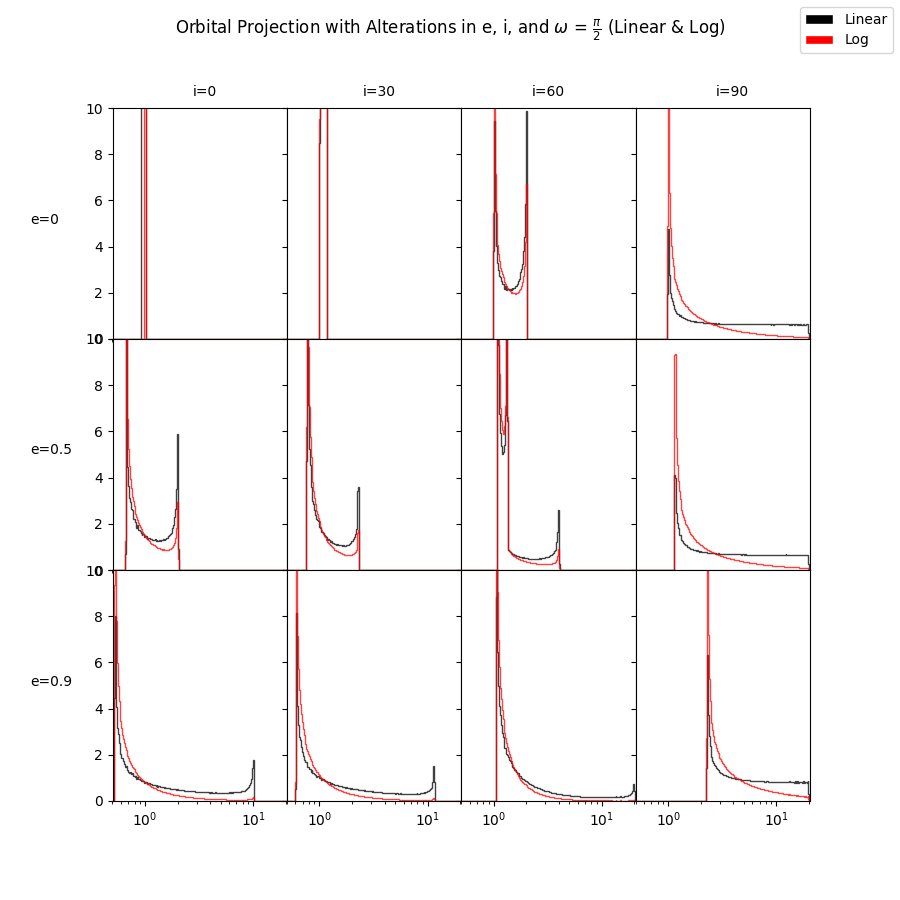
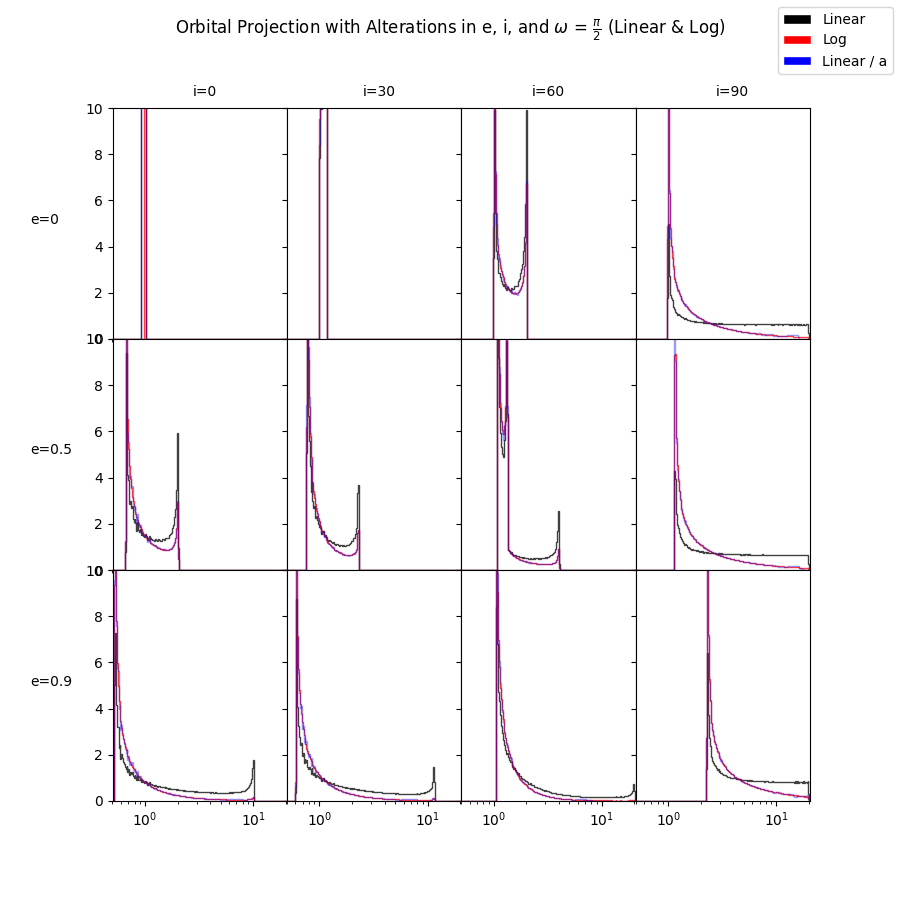
Allowed MultiHistPlot to work for Dictionary values and created a third value in the hist for Linear * 1/a

diff --git a/Sep.py b/Sep.py
@@ -378,6 +378,7 @@ def Rchange(param, coords = False, inclination = False):
     # By making this a dictionary, it vastly improves layout of counts of semimajor axis dots
     totlindict = {}
     totlogdict = {}
+    totlinsemidict = {}
     
     # Coordinate Lists
     xlist = []
@@ -439,6 +440,7 @@ def Rchange(param, coords = False, inclination = False):
             
                 conlin = np.where(np.abs(r-r0)<=0.01)
                 totlindict[val] = len(conlin[0])
+                totlinsemidict[val] = round(len(conlin[0]) / val)
         else:
             # Log Portion
             steps = np.linspace(0, 10000,10000)
@@ -460,7 +462,7 @@ def Rchange(param, coords = False, inclination = False):
                     else:
                         totlogdict[aval] = len(conlog[0])
                
-    return totlindict, xlist, ylist, totlogdict
+    return totlindict, xlist, ylist, totlogdict, totlinsemidict
 
 def DataProj(w = 0, start = 0.5, end = 20, step = 0.5):
     """
@@ -535,11 +537,11 @@ def DataHist(w = 0, step = 0.002, end = 10, Linearonly = False, inclination = Fa
     # Parameters for Paralellization
     param = [
     # Row 1
-    (0. , 0., w, end, step, Linear), (0., np.pi/6, w, end, step, Linear), (0., np.pi/3, w, end, step, Linear), (0., np.pi/2, w, end, step, Linear),
+    (0. , 0., w, end, step, Linear, inclination), (0., np.pi/6, w, end, step, Linear, inclination), (0., np.pi/3, w, end, step, Linear, inclination), (0., np.pi/2, w, end, step, Linear, inclination),
     # Row 2
-    (0.5, 0., w, end, step, Linear), (0.5, np.pi/6, w, end, step, Linear), (0.5, np.pi/3, w, end, step, Linear), (0.5, np.pi/2, w, end, step, Linear),
+    (0.5, 0., w, end, step, Linear, inclination), (0.5, np.pi/6, w, end, step, Linear, inclination), (0.5, np.pi/3, w, end, step, Linear, inclination), (0.5, np.pi/2, w, end, step, Linear, inclination),
     # Row 3
-    (0.9, 0., w, end, step, Linear), (0.9, np.pi/6, w, end, step, Linear), (0.9, np.pi/3, w, end, step, Linear), (0.9, np.pi/2, w, end, step, Linear)
+    (0.9, 0., w, end, step, Linear, inclination), (0.9, np.pi/6, w, end, step, Linear, inclination), (0.9, np.pi/3, w, end, step, Linear, inclination), (0.9, np.pi/2, w, end, step, Linear, inclination)
         
     ]
     
@@ -549,9 +551,12 @@ def DataHist(w = 0, step = 0.002, end = 10, Linearonly = False, inclination = Fa
     
     start = time.perf_counter()
     # Multi Processing
-    # if inclination == False:
-    with Pool(processes = 3) as pool:
-        totlist = pool.map(Rchange, param)
+    if inclination == True:
+        with Pool(processes = 3) as pool:
+            totlist = pool.map(Rchange, param)
+    else:
+        with Pool(processes = 6) as pool:
+            totlist = pool.map(Rchange, param)
     # else:
     #     totlist = Rchange(param)
     end_time = time.perf_counter()
@@ -747,10 +752,15 @@ def MultiPlotProj(w = 0, start = 0.5, end = 20, step = 0.5):
 def MultiPlotHist(w = 0, step = 0.002, end = 10, Linearonly = True):
     """
     """
+    
+    # totlinlist = [[] for _ in range(12)]
+    # totloglist = [[] for _ in range(12)]
+    # totlinsemilist = [[] for _ in range(12)]
+    
     if Linearonly == True:
         colorlist = ["black"]
     else:
-        colorlist = ["black", "red"]
+        colorlist = ["black", "red", "blue"]
     
     totlist, param = DataHist(w = w, step = step, end = end, Linearonly = Linearonly)
     
@@ -763,11 +773,16 @@ def MultiPlotHist(w = 0, step = 0.002, end = 10, Linearonly = True):
     # Iterates through each subplot in the 3x4 figure
     
     for j, ax  in enumerate(axs.flatten()):
-        iterlistlin, x, y, iterlistlog = totlist[j]
-        # Convert list of arrays to a single array, filtering out zeros
-        flat_data_lin = np.concatenate([arr[arr != 0] for arr in iterlistlin])
-        if Linearonly == False:
-            flat_data_log = np.concatenate([arr[arr != 0] for arr in iterlistlog])
+        steplindict, x, y, steplogdict, steplinsemidict = totlist[j]
+        
+        totliniter = steplindict
+        totlinitersemi = steplinsemidict
+        totlogiter = steplogdict
+        
+        totlinlist = [key for key, val in totliniter.items() for _ in range(val)]
+        totlinsemilist = [key for key, val in totlinitersemi.items() for _ in range(val)]
+        totloglist = [key for key, val in totlogiter.items() for _ in range(val)] 
+        
         # Create variables for bin sizes
         nbin = 200
         amin = 0.5
@@ -775,10 +790,10 @@ def MultiPlotHist(w = 0, step = 0.002, end = 10, Linearonly = True):
         # Make logbinsizes for all
         logbinsize = (np.log10(amin)-np.log10(amax))/nbin
         
-        # Calculate weights for normalization
-        # Check if this is wrong or not, cause of the np.ones_like()
-        weights_lin = np.abs(np.ones_like(flat_data_lin) / (len(flat_data_lin) * logbinsize))    
-        weights_log = np.abs(np.ones_like(flat_data_log) / (len(flat_data_log) * logbinsize))  
+        weights_lin = np.abs(np.ones_like(totlinlist) / (len(totlinlist) * logbinsize))
+        weights_linsemi = np.abs(np.ones_like(totlinsemilist) / (len(totlinsemilist) * logbinsize))    
+        weights_log = np.abs(np.ones_like(totloglist) / (len(totloglist) * logbinsize))
+        
         # Creates the log spaced bins for our data
         # Stupid fix to stupid problems :)
         if j == 0 and Linearonly == True:
@@ -793,22 +808,26 @@ def MultiPlotHist(w = 0, step = 0.002, end = 10, Linearonly = True):
         if Linearonly == True:
             
             datahist_lin, bins, patches_lin = ax.hist(
-                flat_data_lin, bins=logbins_lin, range=(0.5, end+0.5),
+                totlinlist, bins=logbins_lin, range=(0.5, end+0.5),
                 stacked=True, histtype="step",
                 weights=weights_lin
             )
         else:
             datahist_lin, bins, patches_lin = ax.hist(
-                flat_data_lin, bins=logbins_lin, range=(0.5, end+0.5),
+                totlinlist, bins=logbins_lin, range=(0.5, end+0.5),
                 stacked=True, histtype="step", alpha = 0.75, edgecolor = "black",
                 weights=weights_lin, fc = "none",
             )
             datahist_log, bins, patches_log = ax.hist(
-                flat_data_log, bins=logbins_log, range=(0.5, end+0.5),
+                totloglist, bins=logbins_log, range=(0.5, end+0.5),
                 stacked=True, histtype="step", alpha = 0.75, edgecolor = "red",
                 weights=weights_log, fc = "none",
             )
-        
+            datahist_linsemi , bins, patches_linsemi = ax.hist(
+                totlinsemilist, bins=logbins_lin, range=(0.5, end+0.5),
+                stacked=True, histtype="step", alpha = 0.40, edgecolor = "blue",
+                weights=weights_linsemi, fc = "none",
+            )
         if Linearonly == True:
             for patch in patches_lin:
                 patch.set_edgecolor("k")
@@ -817,6 +836,8 @@ def MultiPlotHist(w = 0, step = 0.002, end = 10, Linearonly = True):
                 patch.set_edgecolor("k")
             for patch in patches_log:
                 patch.set_edgecolor("r")
+            for patch in patches_linsemi:
+                patch.set_edgecolor("b")
         ax.set_xlim(0.5,20.5)
         ax.set_ylim(0,10)
         ax.set_xscale("log")
@@ -833,14 +854,14 @@ def MultiPlotHist(w = 0, step = 0.002, end = 10, Linearonly = True):
     if Linearonly == True:
         labels = ["Linear"]
     else:
-        labels = ["Linear", "Log"]
+        labels = ["Linear", "Log", "Linear / a"]
     fig.legend(handles, labels)
     if Linearonly == True:
         plt.savefig('/College Projects/Microlensing Separation/Figures/MultiHist_omega_pi_2_0001_Linear.png')
     else:
         plt.savefig('/College Projects/Microlensing Separation/Figures/MultiHist_omega_pi_2_0001_LinLog.png')
     plt.show()
-    return iterlistlin
+    return totlist
 
 def CompletePlotHist(w = 0, step = 0.002, end = 20, inclination = True):
     """
@@ -891,7 +912,7 @@ def CompletePlotHist(w = 0, step = 0.002, end = 20, inclination = True):
                 totliniter = steplindict
                 totlogiter = steplogdict
             
-                # totlinlist[j] = [key for key, val in totliniter.items() for _ in range(val)]
+                totlinlist[j] = [key for key, val in totliniter.items() for _ in range(val)]
                 totloglist[j] = [key for key, val in totlogiter.items() for _ in range(val)]
             
                 # weights_lin = np.abs(np.ones_like(totliniter) / (len(totliniter) * logbinsize))    
@@ -1040,8 +1061,8 @@ def CompletePlotHist(w = 0, step = 0.002, end = 20, inclination = True):
     
 if __name__ == "__main__":
     # rlist = MultiPlotProj(w = np.pi/4., start = 0.5, end = 20, step = 0.5)
-    # rtemp = MultiPlotHist(w = np.pi/2., step = 0.002, end = 20, Linearonly = True)
-    clist = CompletePlotHist(w = 0, step = 0.002, end = 20, inclination = True)
+    rtemp = MultiPlotHist(w = np.pi/2., step = 0.002, end = 20, Linearonly = False)
+    # clist = CompletePlotHist(w = 0, step = 0.002, end = 20, inclination = True)
 
 # x,y,t = OrbGeoAlt(a=1, e=0.0,w=np.pi/4, i = np.pi/6)
 # param = [0.5, 0.5, np.pi/2, 0]
